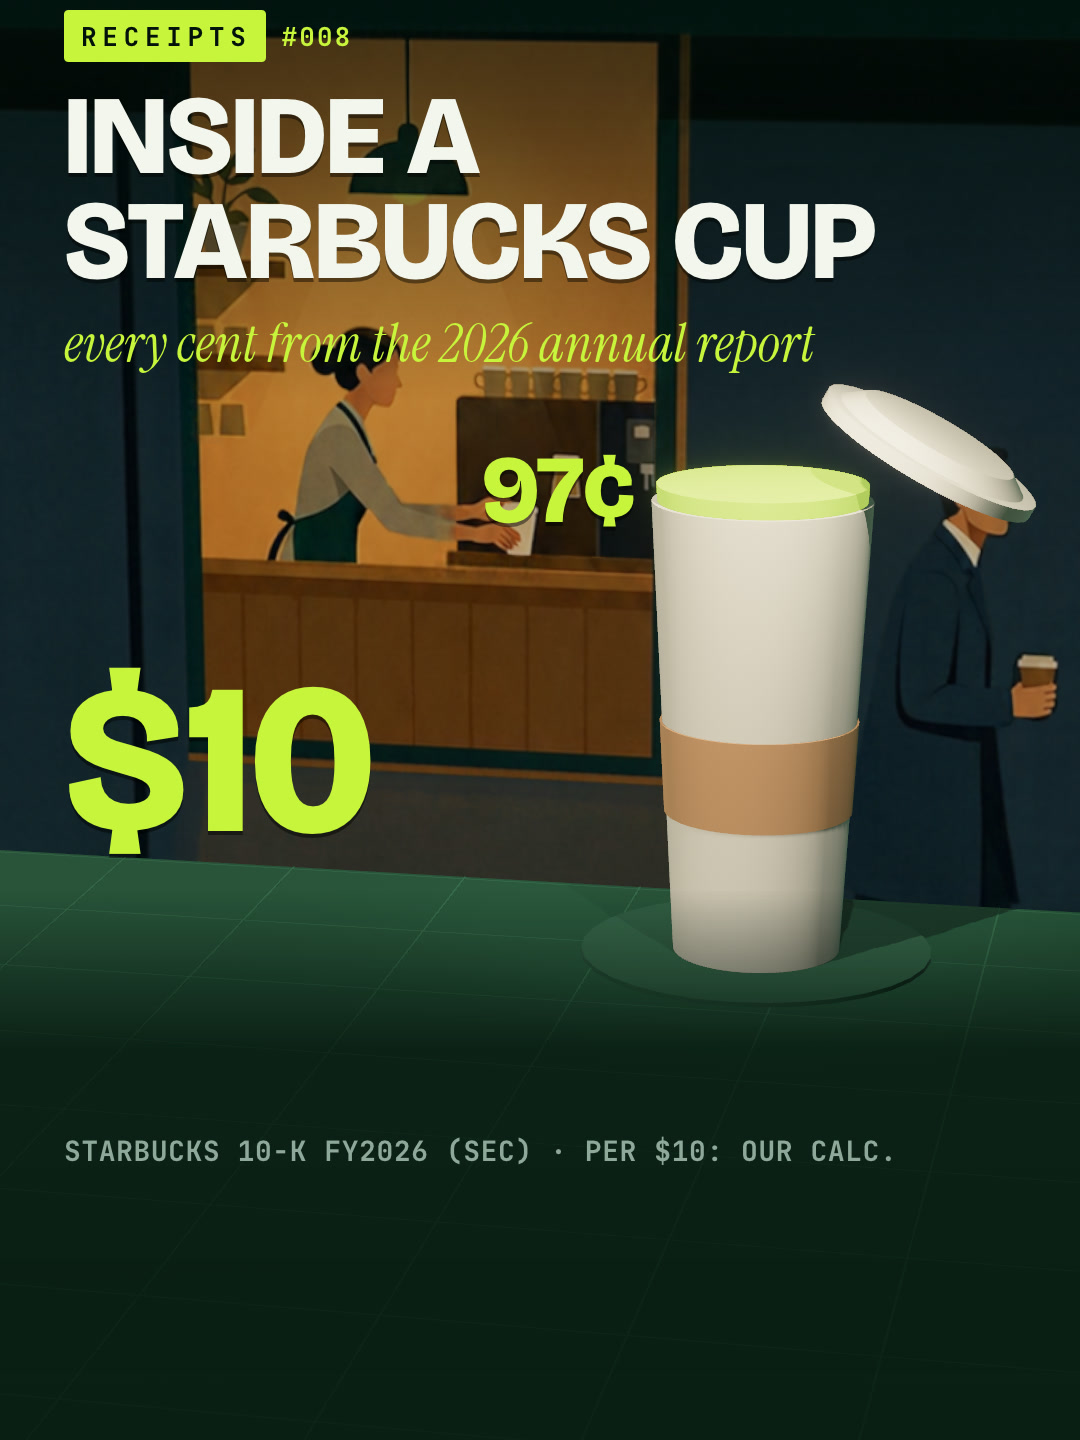
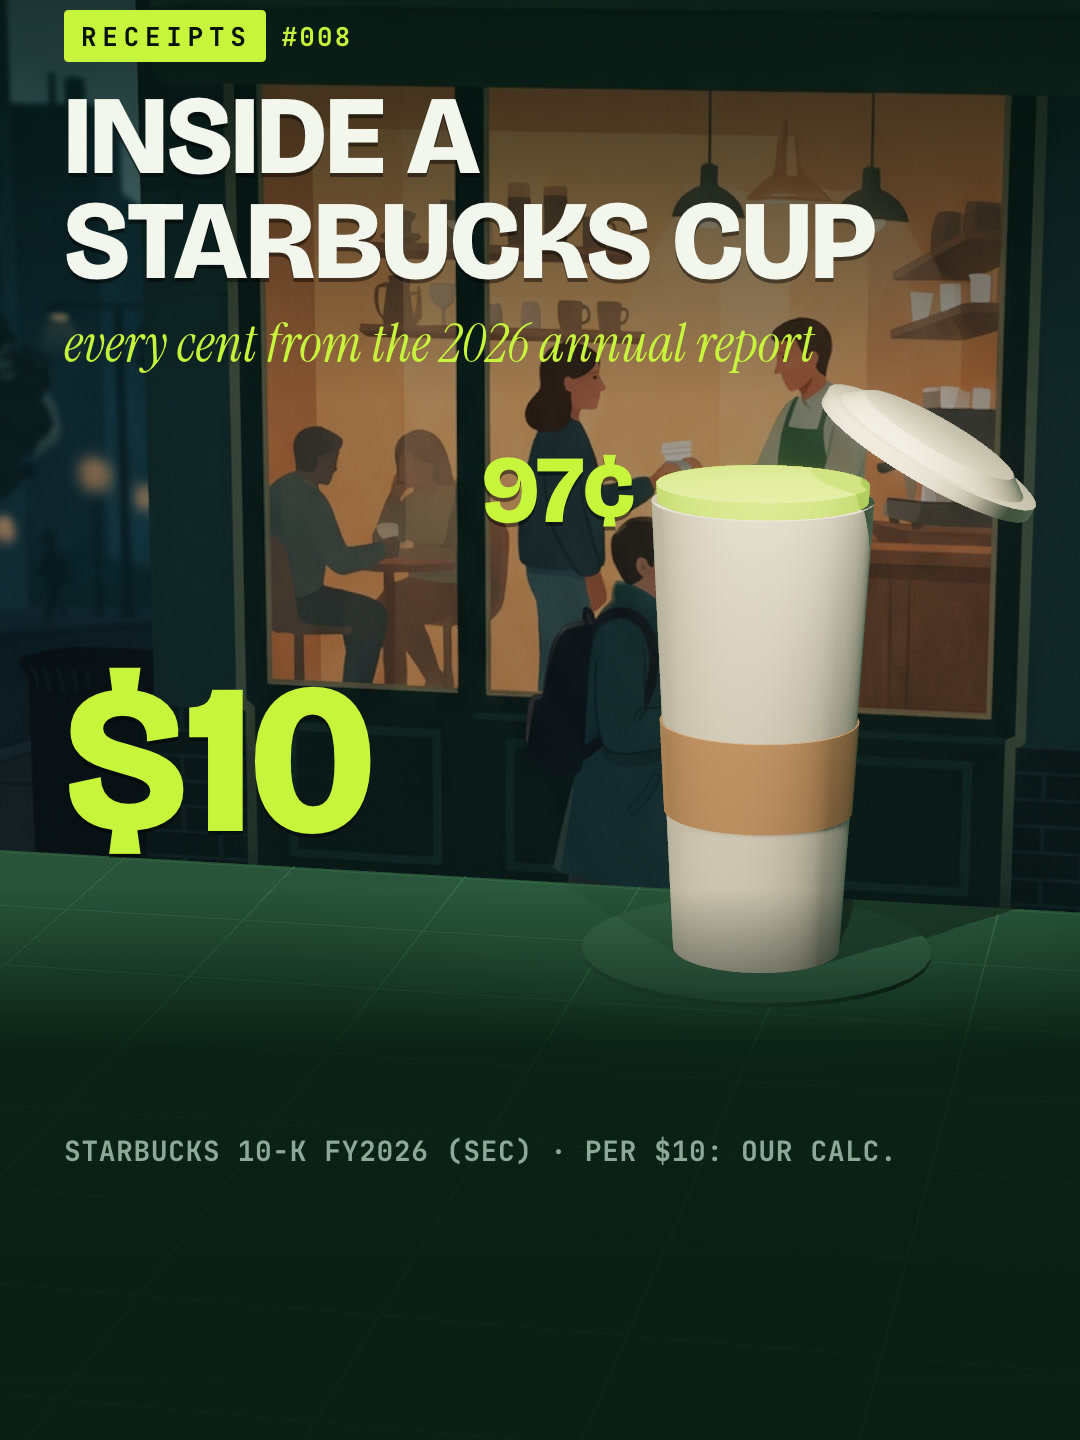
RECEIPTS #008: Nano Banana backdrops replace the Canva pass
- Three backdrops regenerated with Nano Banana in the Gemini app (1536x2752, cropped 1080x1920):
  coffeehouse street in profile, baristas at the counter, night street of coffeehouses.
- Cards repositioned for the new framing and darkened to 75 % behind the data.
- SOURCES.md provenance, STUDIO.md §12 (Nano Banana via the Gemini app first), cover refreshed.

Changed region(s): [[0.0, 0.0, 0.9778, 0.625], [0.0917, 0.5312, 0.1222, 0.5625], [0.0, 0.3438, 0.0306, 0.375]]

diff --git a/raea/starbucks-3d/compositions/starbucks.tsx b/raea/starbucks-3d/compositions/starbucks.tsx
@@ -209,7 +209,7 @@ function Card({ name, src, w: cw, pos }: { name: string; src: string; w: number;
   return (
     <Mesh3d name={name} allowOverlap transform={Transform.fromXyz(...pos)}>
       <Cuboid half_size={[cw / 2, (cw * 8) / 9, 0.02]} />
-      <StandardMaterial base_color="#FFFFFF" base_color_texture={staticFile(src)} unlit />
+      <StandardMaterial base_color="#C0C0C0" base_color_texture={staticFile(src)} unlit /> {/* ×0.75: the picture stays behind the data */}
     </Mesh3d>
   );
 }
@@ -220,8 +220,8 @@ function Backdrops({ t }: { t: number }) {
   // render nor shows up if mounted after frame 0, and blended planes sort by centre distance.
   return (
     <>
-      <Card name="bg-street" src="art/bg-street.png" w={BG_W} pos={[CUP_X - 4.3, 9, BG_Z]} />
-      <Card name="bg-counter" src="art/bg-counter.png" w={BG_W} pos={[CUP_X - 4.3, 6 - (1 - up) * (BG_H + 4), BG_Z + 0.4]} />
+      <Card name="bg-street" src="art/bg-street.png" w={BG_W} pos={[CUP_X - 4.3, 4, BG_Z]} />
+      <Card name="bg-counter" src="art/bg-counter.png" w={BG_W} pos={[CUP_X - 4.3, 8 - (1 - up) * (BG_H + 4), BG_Z + 0.4]} />
       <Card name="bg-night" src="art/bg-night.png" w={30} pos={[YEAR_X, 10, -13]} />
     </>
   );

diff --git a/public/episodes/starbucks-10/SOURCES.md b/public/episodes/starbucks-10/SOURCES.md
@@ -84,13 +84,15 @@ other, net $1.26 · operating profit $0.97 (before interest & tax). FY2026 reven
 41,607 coffeehouses. Which receipt should we open next?
 
 ## Backdrops (AI images, provenance)
-Generated 20 Nov 2026 with Canva generate-image (Nano Banana / GPT Image unavailable on the connected accounts: plan or
-credits), exported at 1080×1920, in `art/`. Illustrations only, no logo, no brand mark, no text; they show "a
-coffeehouse", not Starbucks property. Prompts (abridged): `bg-street.png` side-profile street at blue hour, a coffeehouse
-with a green awning, a barista handing a takeaway cup, a commuter walking past with a cup · `bg-counter.png` two baristas
-in profile at an espresso machine, cups on the counter · `bg-night.png` a night street of coffeehouses with green awnings,
-people carrying cups, a delivery scooter. All: flat graphic shapes, soft grain, dark forest green / teal / amber, "No logos,
-no brand marks, no text, no lettering anywhere."
+Generated 21 Nov 2026 with **Nano Banana (Google Gemini app, image generation)** in the owner's Gemini account, downloaded
+at full size (1536×2752 JPEG) and cropped to 1080×1920 PNG in `art/`. (A first pass on 20 Nov used Canva generate-image;
+replaced.) Illustrations only, no logo, no brand mark, no text; they show "a coffeehouse", not Starbucks property.
+Prompts (abridged): `bg-street.png` side-profile street at blue hour, a corner coffeehouse with a green awning, a barista
+handing a takeaway cup across the counter, a commuter walking past with a cup · `bg-counter.png` two baristas in profile,
+one steaming milk at an espresso machine, one pouring a latte, cups on the counter · `bg-night.png` a night street of
+coffeehouses with green awnings and warm windows, people carrying cups, a delivery scooter. All: stylised editorial
+illustration, flat shapes, soft grain, dark forest green / teal / amber, "No logos, no brand marks, no text, no lettering
+anywhere." In the reel the pictures are darkened to 75 % behind the data.
 
 ## Verification status
 Figures read directly from the 10-K on sec.gov (20 Nov 2026). Owner: tick each line once before posting.

diff --git a/docs/STUDIO.md b/docs/STUDIO.md
@@ -244,8 +244,9 @@ A render uses all four cores: do not run stills at the same time.
    on a street, seen in profile, a courier with a parcel or not; Starbucks: a coffeehouse street, the baristas at the
    counter, a night street of coffeehouses). The data stays in front; the backdrop is darkened by the scene's fog and the
    top/bottom gradients so text keeps 3:1.
-2. **AI images in the reels.** Backdrops (and other plates) are generated images: Nano Banana or GPT Image when an account
-   allows it, else Canva's generate-image. Prompts: stylised flat illustration, side profile, the house palette (dark
+2. **AI images in the reels.** Backdrops (and other plates) are generated with **Nano Banana in the owner's Gemini app**
+   (gemini.google.com, through the browser; "Télécharger l'image en taille réelle" gives 1536×2752), or GPT Image in
+   ChatGPT; Canva generate-image only as a fallback. Prompts: stylised flat illustration, side profile, the house palette (dark
    forest green, teal, warm amber), calm areas where the title and captions sit, **no logos, no brand marks, no text**.
    The PNGs live in `public/episodes/<id>/art/` (committed) with their prompts and tool in SOURCES.md (provenance).
    In raea: an opaque unlit card behind the scene, `<Mesh3d><Cuboid half_size={[w/2, h/2, 0.02]} />

diff --git a/deliverables/starbucks-10/POSTING.md b/deliverables/starbucks-10/POSTING.md
@@ -47,7 +47,7 @@ Source: Starbucks Corporation, Form 10-K for fiscal 2026 (SEC). Per $10 of reven
 - **"Why closing stores?"** → "The 10-K books $688.6M of restructuring and impairments in fiscal 2026, tied to coffeehouse and office closures. We don't speculate on why."
 
 - **"Licensed?"** → "Licensed coffeehouses are run by partner companies, not by Starbucks itself (China moved to licensed in 2026). 28,210 of 41,607 at the end of fiscal 2026, per the 10-K."
-- **Backdrops** → AI illustrations (no logo); the figures all come from the 10-K.
+- **Backdrops** → AI illustrations made with Nano Banana (no logo); the figures all come from the 10-K.
 
 ## Platform notes
 - **YouTube Shorts:** title "Starbucks keeps 97¢ of every $10 you pay".
